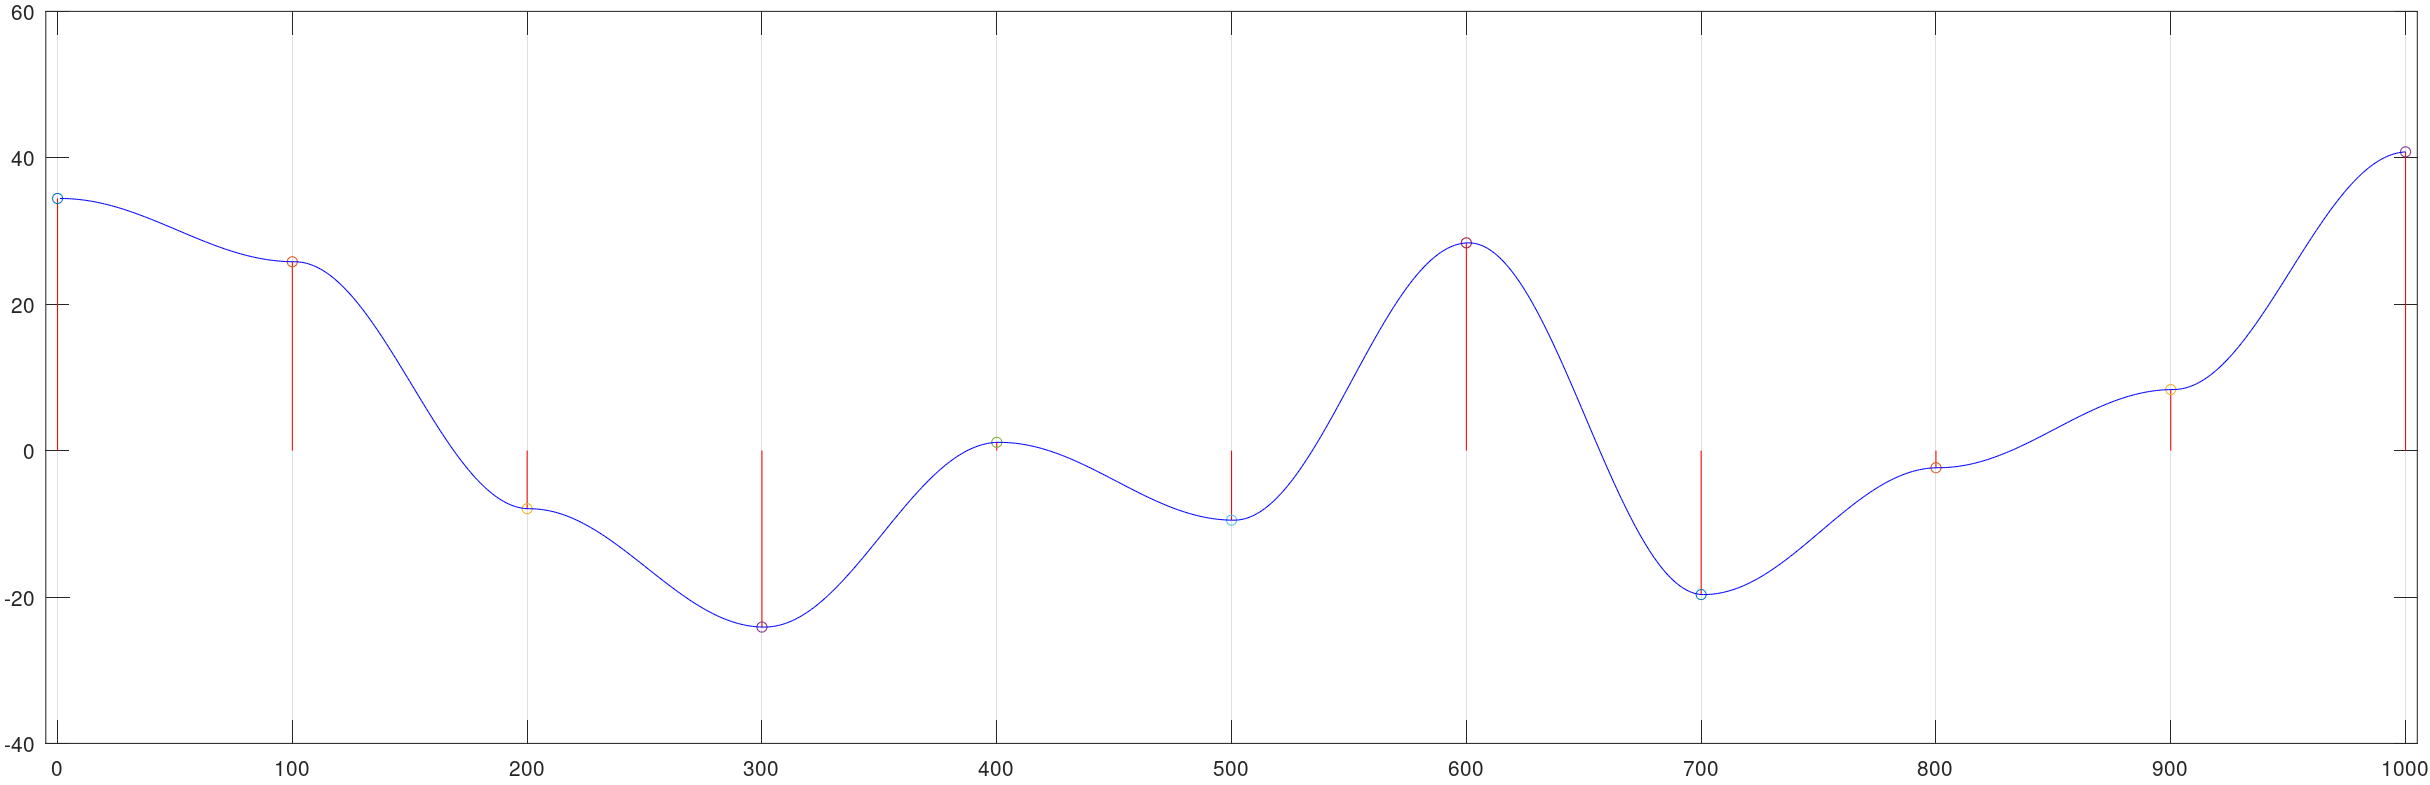
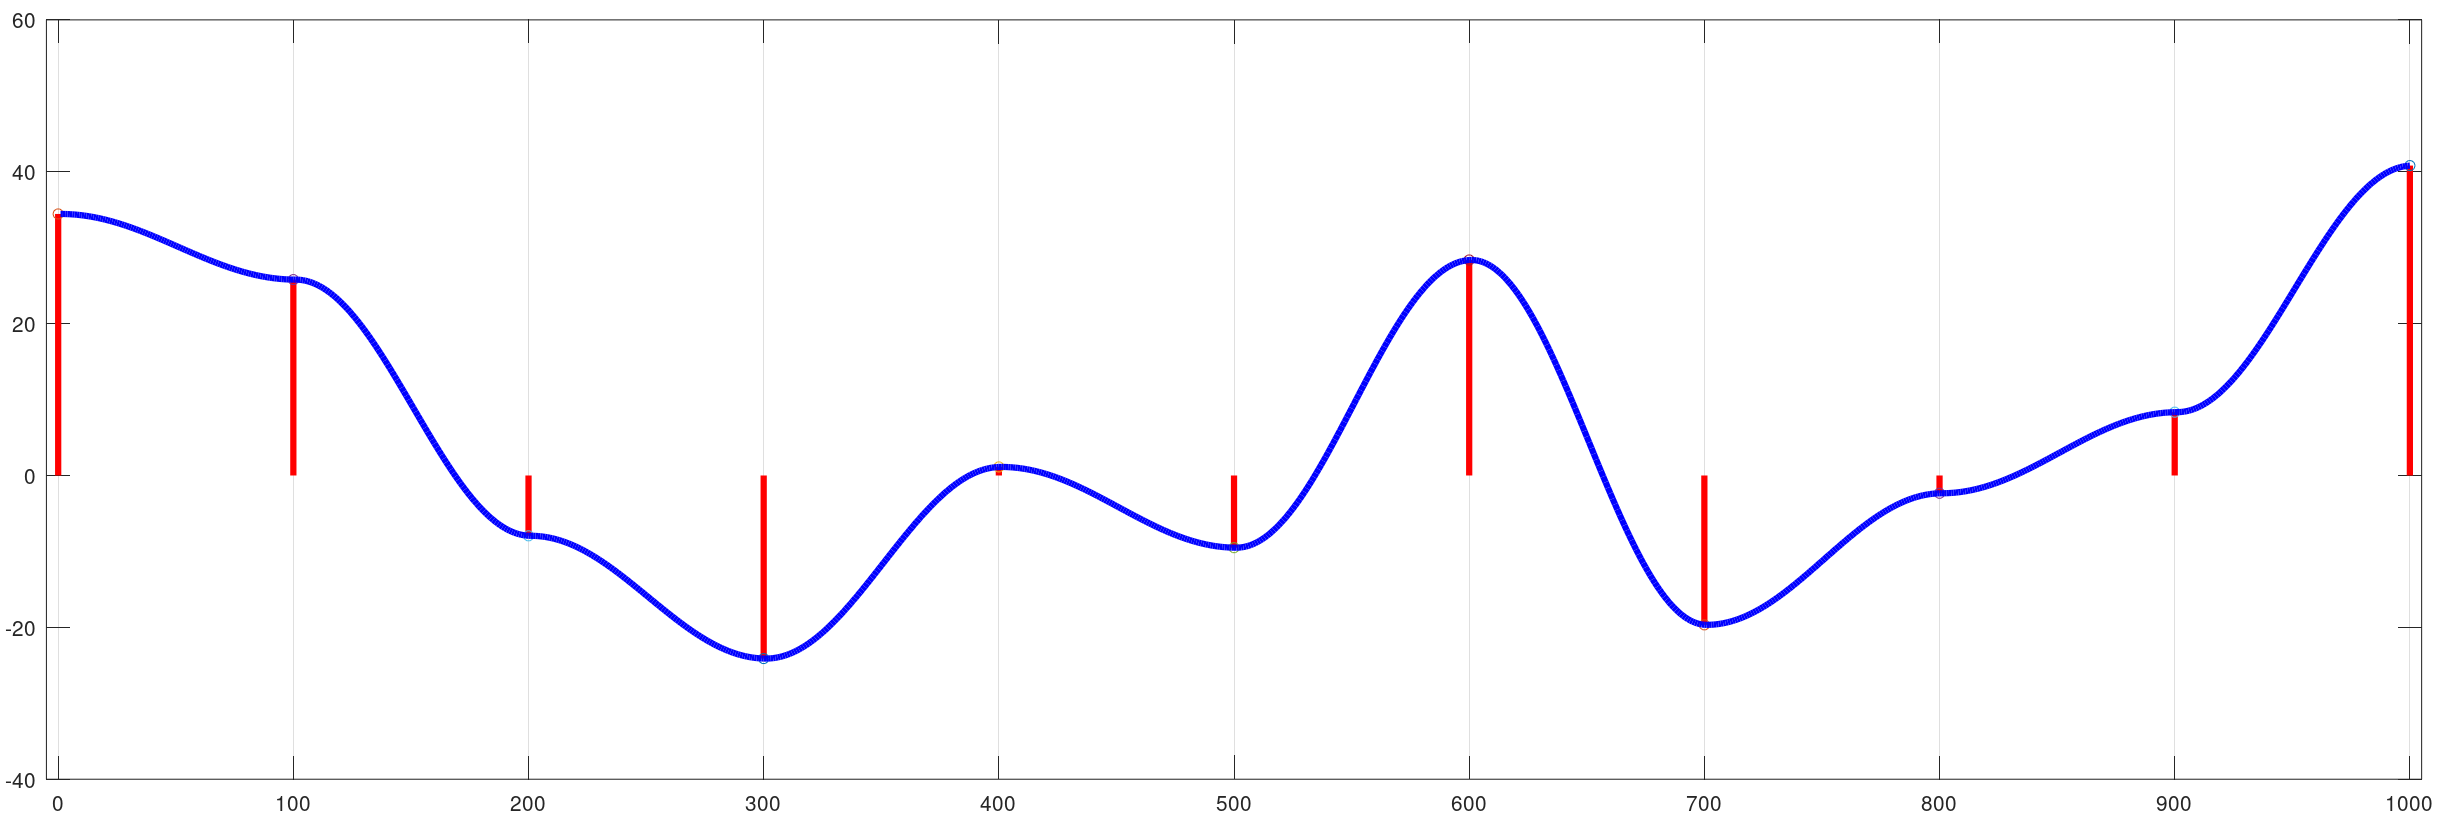
Modified matlab demo scripts and images to have visuals with thicker lines, for better readability

diff --git a/NoiseTheory/matlab/valueNoise1DStepByStep.m b/NoiseTheory/matlab/valueNoise1DStepByStep.m
@@ -17,13 +17,20 @@ function ys = valueNoise1DStepByStep(num_points, wavelength, amplitude)
   for p=1:num_points+1
     if mod(p-1, wavelength) == 0
       lattice_index = ((p-1) / wavelength) +1 ;
-      plot([p-1 p-1],[0 lattice_points(lattice_index)], 'red'); hold on;
+      plot([p-1 p-1],[0 lattice_points(lattice_index)], 'color', 'r', 'linewidth', 3); hold on;
       plot(p-1,lattice_points(lattice_index),'o','MarkerSize',5); hold on;
     endif
   endfor
+
+
   set(gca,'xtick',[0:wavelength:num_points])
   set (gca, "xgrid", "on");
+
   xlim([-5 num_points+5]);
+
+##    plot(xs,ys, 'color', 'b', 'linewidth', 3); hold on; % Step 1 display
+##    return;
+
 
   % Step 2 - Show how 2 lattice points are used to interpolate all the points in between
   % Pick the first two lattice points
@@ -39,7 +46,8 @@ function ys = valueNoise1DStepByStep(num_points, wavelength, amplitude)
     ys(i) = interpCos(i-1, wavelength, v_lattice_start, v_lattice_end);
   endfor
 
-  % plot(xs,ys, 'blue'); hold on;
+##    plot(xs,ys, 'color', 'b', 'linewidth', 3); hold on; % Step 2 display
+##    return;
 
   % Step 2b, let's do some more points
 
@@ -57,7 +65,10 @@ function ys = valueNoise1DStepByStep(num_points, wavelength, amplitude)
     endif
   endfor
 
- % plot(xs,ys, 'blue'); hold on;
+##    plot(xs,ys, 'color', 'b', 'linewidth', 3); hold on; % Step 2b display
+##    return;
+
+
  % Step 2c, let's do the remaining points
  for i=wavelength*4+1:num_points
     if mod(i-1, wavelength) == 0
@@ -69,7 +80,10 @@ function ys = valueNoise1DStepByStep(num_points, wavelength, amplitude)
       ys(i) = interpCos(i-1, wavelength, v_lattice_start, v_lattice_end);
     endif
   endfor
-  plot(xs,ys, 'blue'); hold on;
+
+  plot(xs,ys, 'color', 'b', 'linewidth', 3); hold on;  % Step 2c - final
+
+
 end;
 
 % Octave does not have the Cosine interpolator, so we code it ourselves

diff --git a/NoiseTheory/matlab/valueNoiseCompSinSample.m b/NoiseTheory/matlab/valueNoiseCompSinSample.m
@@ -8,17 +8,17 @@ y_noise = valueNoise1D(1000, 20, 10);        % Wavelength 10, amp 5, ranging fro
 y_sin_noise = y_sin + y_noise.';
 
 figure; subplot(3,1, 1);
-plot(x_sin, y_sin);
+plot(x_sin, y_sin, 'linewidth', 3);
 xlabel('x');
 ylabel('sin(x)');
-title('Plot of Sinusoidal Function');
+title('Plot of Sinusoidal Function - Values from -256 to 256');
 subplot(3,1, 2);
-plot(x_sin, y_noise);
+plot(x_sin, y_noise, 'r', 'linewidth', 2);
 xlabel('x');
 ylabel('Value Noise');
-title('Value Noise Function');
+title('Value Noise Function - Values from 10 to 10');
 subplot(3,1, 3);
-plot(x_sin, y_sin_noise);
+plot(x_sin, y_sin_noise, 'linewidth', 2);
 xlabel('x');
 ylabel('Sin with noise');
 title('Plot of Sinusoidal Function with noise');

diff --git a/NoiseTheory/matlab/valueNoise1DCompSample.m b/NoiseTheory/matlab/valueNoise1DCompSample.m
@@ -11,14 +11,14 @@ comp = comp + y3s;
 comp = comp + y4s;                  % Comp holds the sum of all Layers
 
 figure; subplot(2,1, 1);
-plot(xs, ys, 'red');
-hold on; plot(xs, y2s, 'b');
-hold on; plot(xs, y3s, 'g');
-hold on; plot(xs, y4s, 'magenta');
+plot(xs, ys, 'r', 'linewidth', 4);
+hold on; plot(xs, y2s, 'b', 'linewidth', 3);
+hold on; plot(xs, y3s, 'g', 'linewidth', 2);
+hold on; plot(xs, y4s, 'magenta', 'linewidth', 2);
 set(gca,'xtick',[0:125:2000])
 set (gca, "xgrid", "on");
 subplot(2,1, 2);
-plot(xs, comp, 'k');
+plot(xs, comp, 'k', 'linewidth', 2);
 hold on;
 set(gca,'xtick',[0:125:2000])
 set (gca, "xgrid", "on");

diff --git a/NoiseTheory/matlab/valueNoise2DCompSample.m b/NoiseTheory/matlab/valueNoise2DCompSample.m
@@ -14,8 +14,8 @@ figure; imagesc(layer_3); colormap(bone); title('Layer 3 - W20, A10');
 figure; mesh(layer_3);title('Layer 3 - W20, A10');
 
 layer_4 = valueNoise2D(num_points, 5, 5);          % Layer 4 - wavelength 5, amp 5
-figure; imagesc(layer_3); colormap(bone); title('Layer 4 - W5, A5');
-figure; mesh(layer_3);title('Layer 4 - W5, A5');
+figure; imagesc(layer_4); colormap(bone); title('Layer 4 - W5, A5');
+figure; mesh(layer_4);title('Layer 4 - W5, A5');
 
 
 comp = layer_1 + layer_2 + layer_3 + layer_4;

diff --git a/NoiseTheory/matlab/valueNoiseWavelengthSample.m b/NoiseTheory/matlab/valueNoiseWavelengthSample.m
@@ -2,9 +2,9 @@ xs = [1:2000];
 ys = valueNoise1D(2000, 40, 500);      % wavelength 500
 y2s = valueNoise1D(2000, 40, 250);     % wavelength 250
 y3s = valueNoise1D(2000, 40, 125);     %  wavelength 125
-figure; plot(xs, ys, 'r');
-hold on; plot(xs, y2s, 'b');
-hold on; plot(xs, y3s, 'g');
+figure; plot(xs, ys, 'r', 'linewidth', 4);
+hold on; plot(xs, y2s, 'b', 'linewidth', 3);
+hold on; plot(xs, y3s, 'g', 'linewidth', 2);
 set(gca,'xtick',[0:125:2000])
 %set (gca, "xminorgrid", "on");
 set (gca, "xgrid", "on");

diff --git a/NoiseTheory/matlab/valueNoiseAmplitudeSample.m b/NoiseTheory/matlab/valueNoiseAmplitudeSample.m
@@ -1,9 +1,10 @@
 xs = [1:2000];
-ys = valueNoise1D(2000, 120,500);   % amplitude 40
 y2s = valueNoise1D(2000, 120,500);  % amplitude 120
 y3s = valueNoise1D(2000, 80,500);   % amplitude 80
-figure; plot(xs, ys, 'r');
-hold on; plot(xs, y2s, 'b');
-hold on; plot(xs, y3s, 'g');
+ys = valueNoise1D(2000, 40,500);   % amplitude 40
+
+figure; plot(xs, ys, 'r', 'linewidth', 4);
+hold on; plot(xs, y2s, 'b', 'linewidth', 3);
+hold on; plot(xs, y3s, 'g', 'linewidth', 2);
 axis on;
 

diff --git a/NoiseTheory/valuenoise.md b/NoiseTheory/valuenoise.md
@@ -270,10 +270,12 @@ Noise can be composed or combined with any type of function, not only among laye
 
 The idea is simple, we can add the noise value to the function that we want to distort a little bit. Find a simple example below on how noise can impact a known function, the *sine function* 
 
+<div style="width:75%; margin: auto;">
 <p align="center">
 
-![](images/sinWithNoise.png)
+<img src="images/sinWithNoisev2.png">
 </p>
+</div>
 
 ```
 The code of the above image can be found in valueNoiseCompSinSample.m
